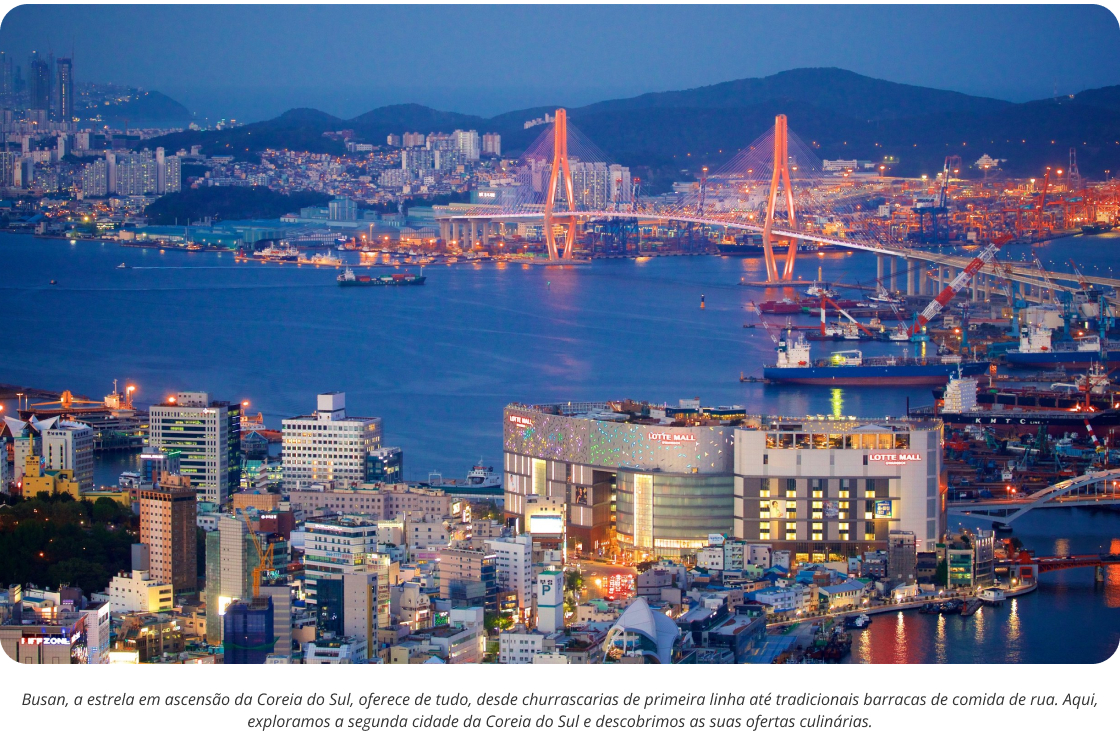
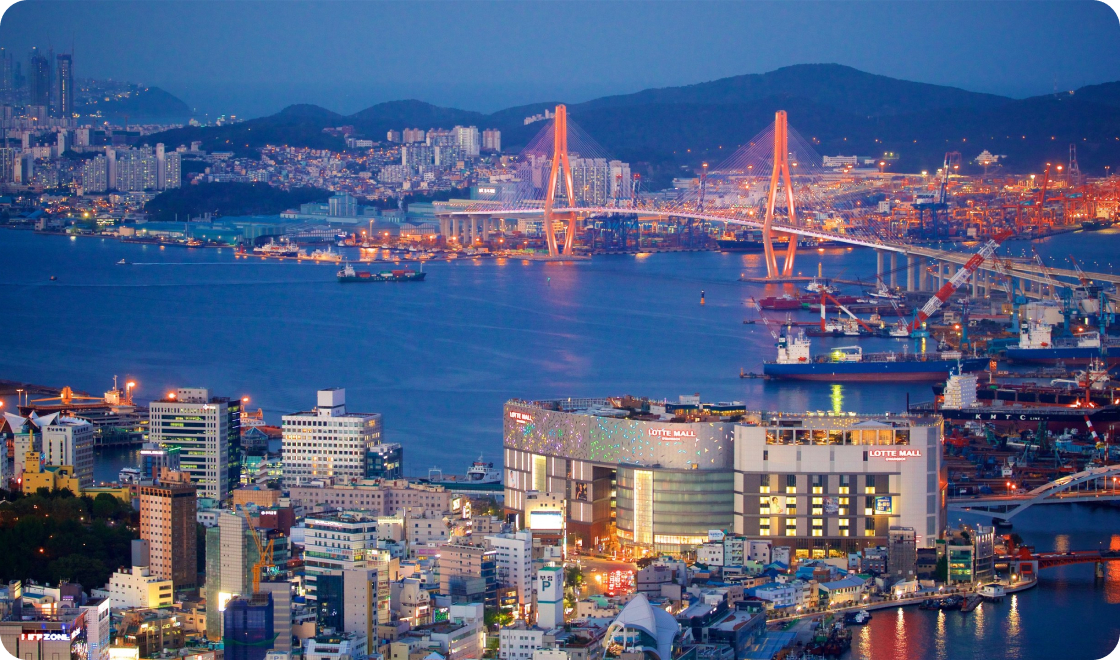
img novas

diff --git a/style.css b/style.css
@@ -1,0 +1,39 @@
+body {
+  background-color: #F5F4F0;
+  border: #d9d9d9;
+  box-sizing: border-box;
+}
+header{
+  font-size: 16px;
+  color: #E1624F;;
+}
+img#busann{
+  position: ;
+}
+h1 {
+  font-size: 36px;
+  ;
+}
+
+div#page{
+  
+  
+}
+
+h2.history{
+  color: #E1624F;
+}
+
+img#busann{
+padding: 40px;
+}
+
+img#haedongg{
+
+}
+section{
+  
+}
+section#p1 {
+
+}
